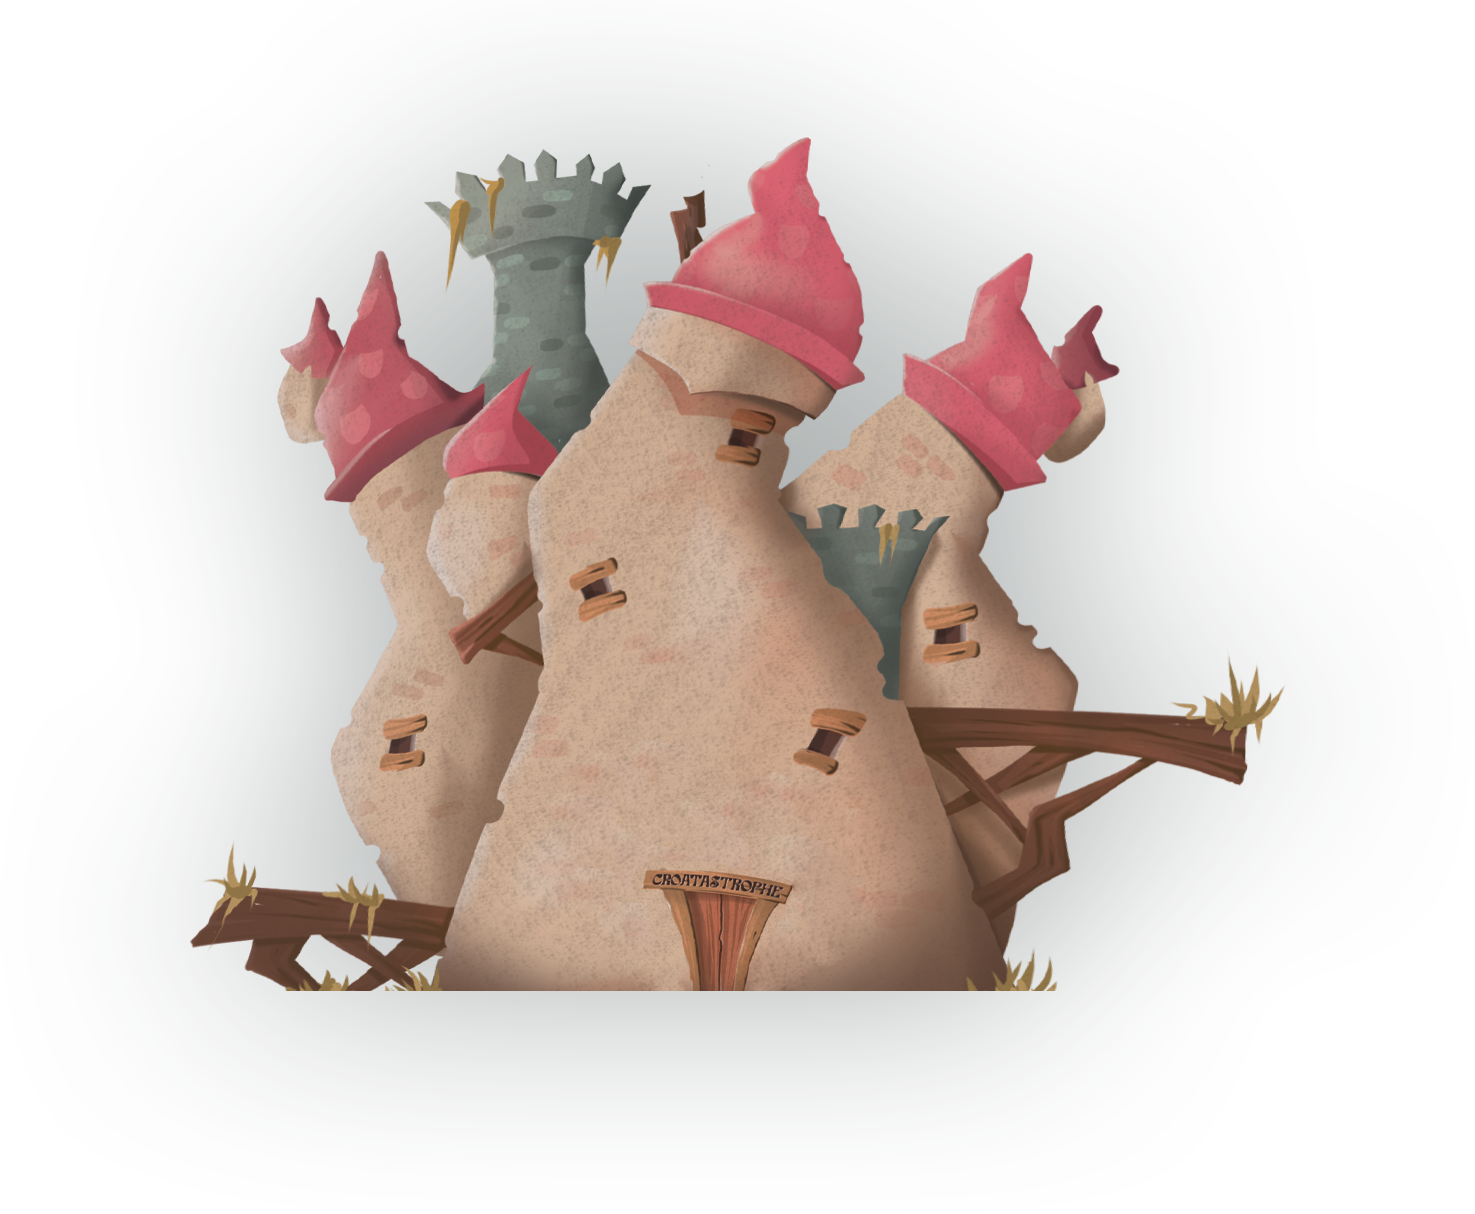
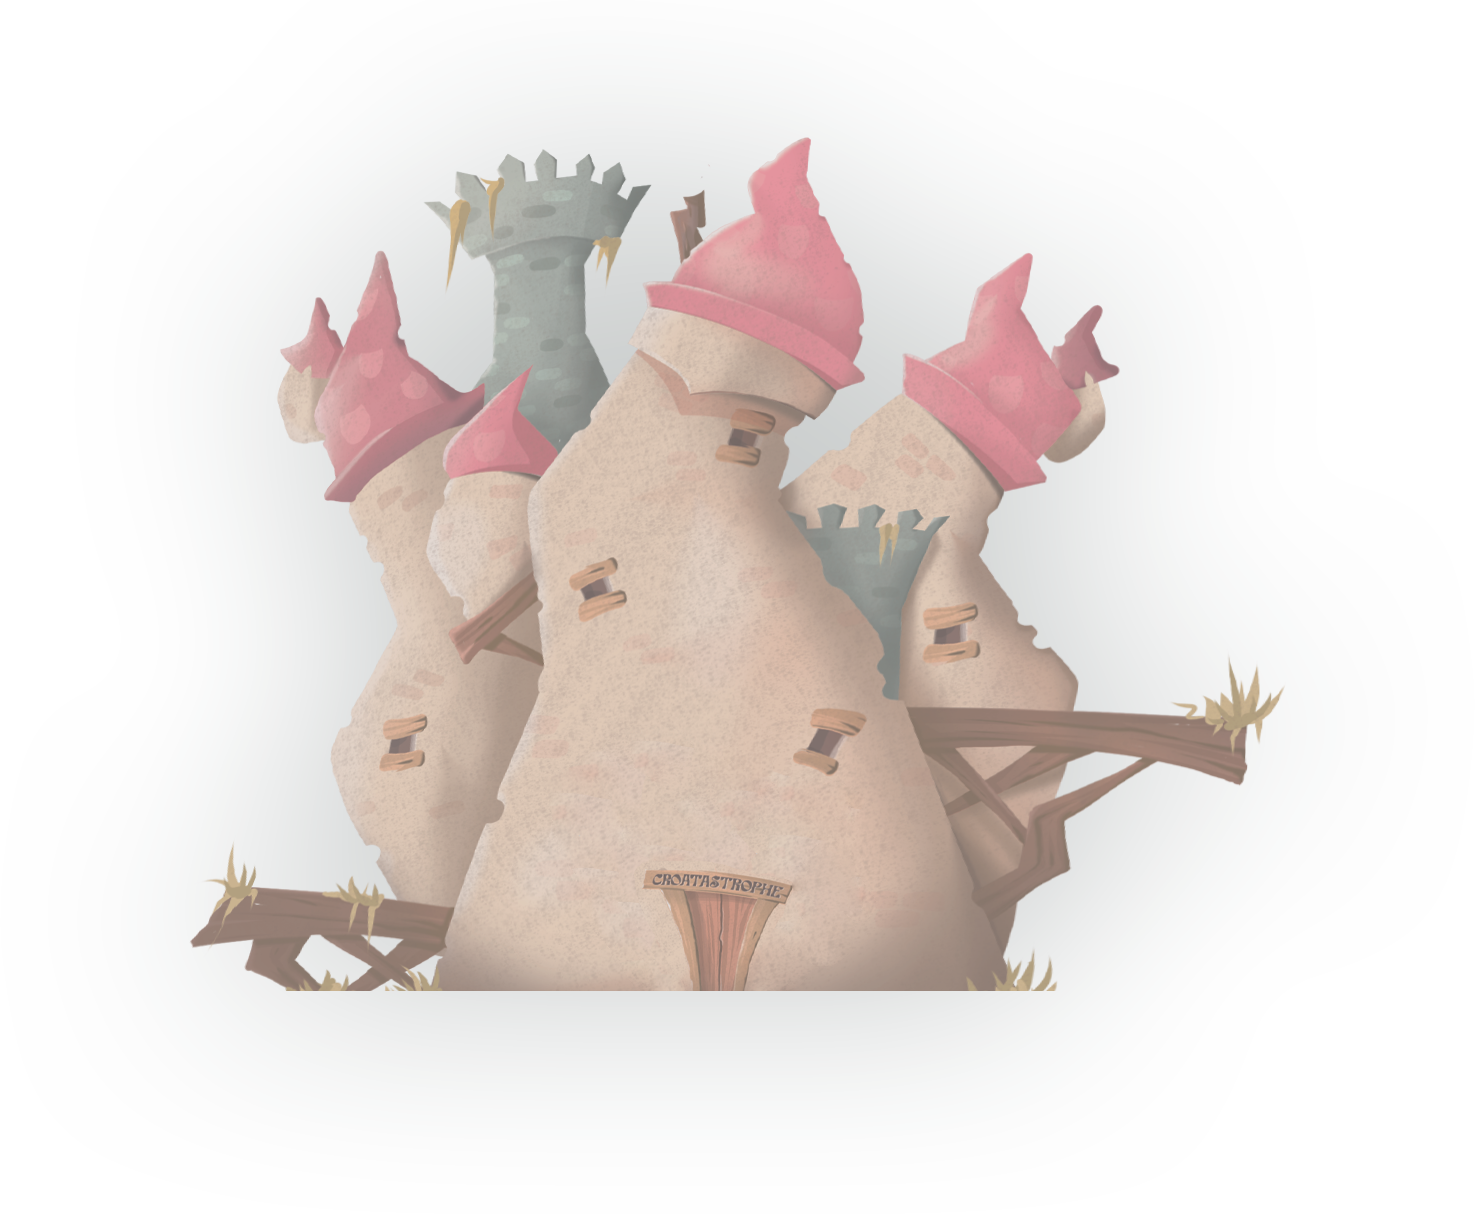
Edit castle texture 〒▽〒

Changed region(s): [[0.1247, 0.1219, 0.8732, 0.8229]]

diff --git a/sources/Experience/World.js b/sources/Experience/World.js
@@ -108,6 +108,8 @@ export default class World {
 
   createCastleSprite() {
     const castleTexture = this.resources.items.castleTexture
+    castleTexture.encoding = THREE.sRGBEncoding
+
     const surface = new THREE.Mesh(
       new THREE.PlaneGeometry(20, 20),
       new THREE.MeshBasicMaterial({
@@ -127,6 +129,7 @@ export default class World {
 
   getInputTexture(type, input) {
     const inputTexture = this.resources.items[`${type}Input${input}`]
+    inputTexture.encoding = THREE.sRGBEncoding
     const plane = new THREE.Mesh(
       new THREE.PlaneGeometry(0.8, 0.8),
       new THREE.MeshBasicMaterial({
@@ -437,7 +440,7 @@ export default class World {
       })
 
       // Spawn mobs patterns
-      this.spawnPattern()
+      // this.spawnPattern()
 
       // Check bumpers
       this.checkWeaponsSwitch()
